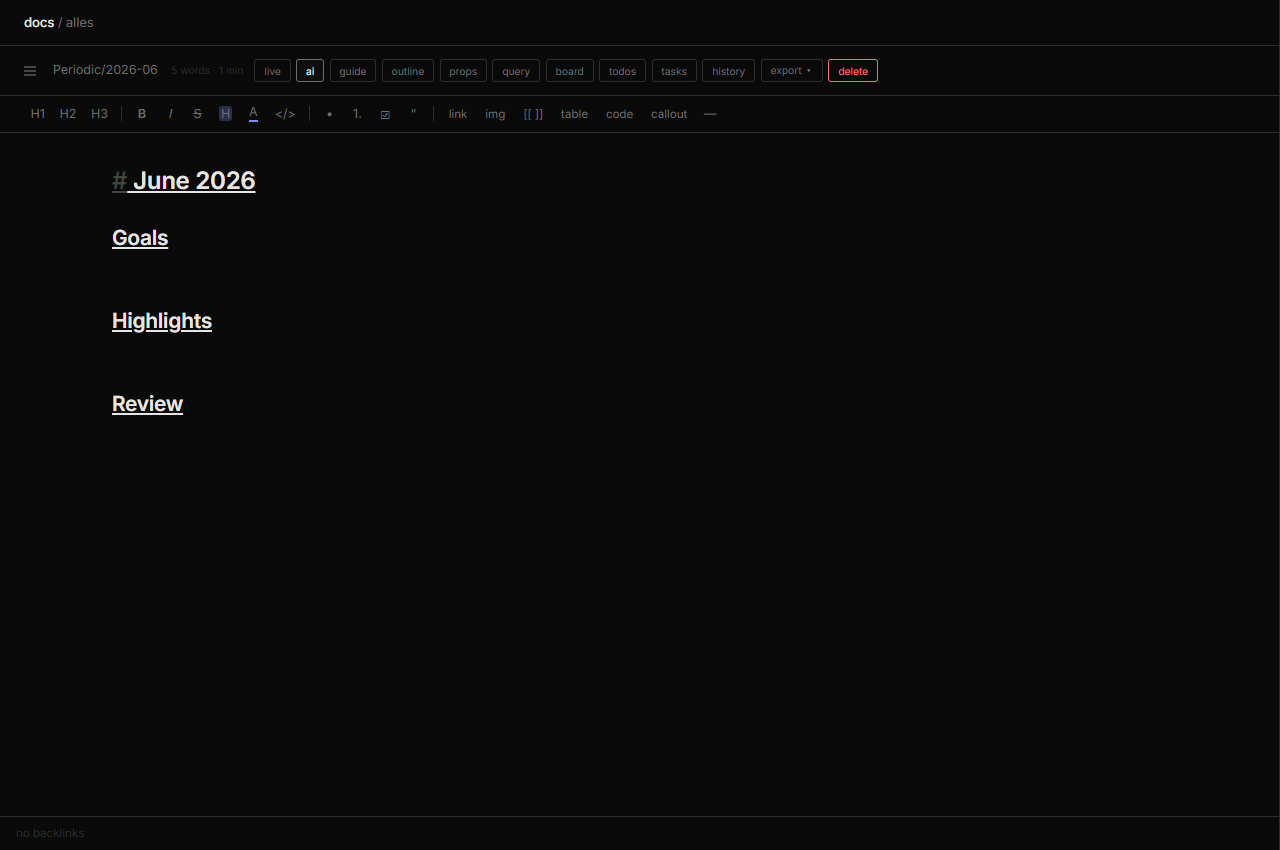
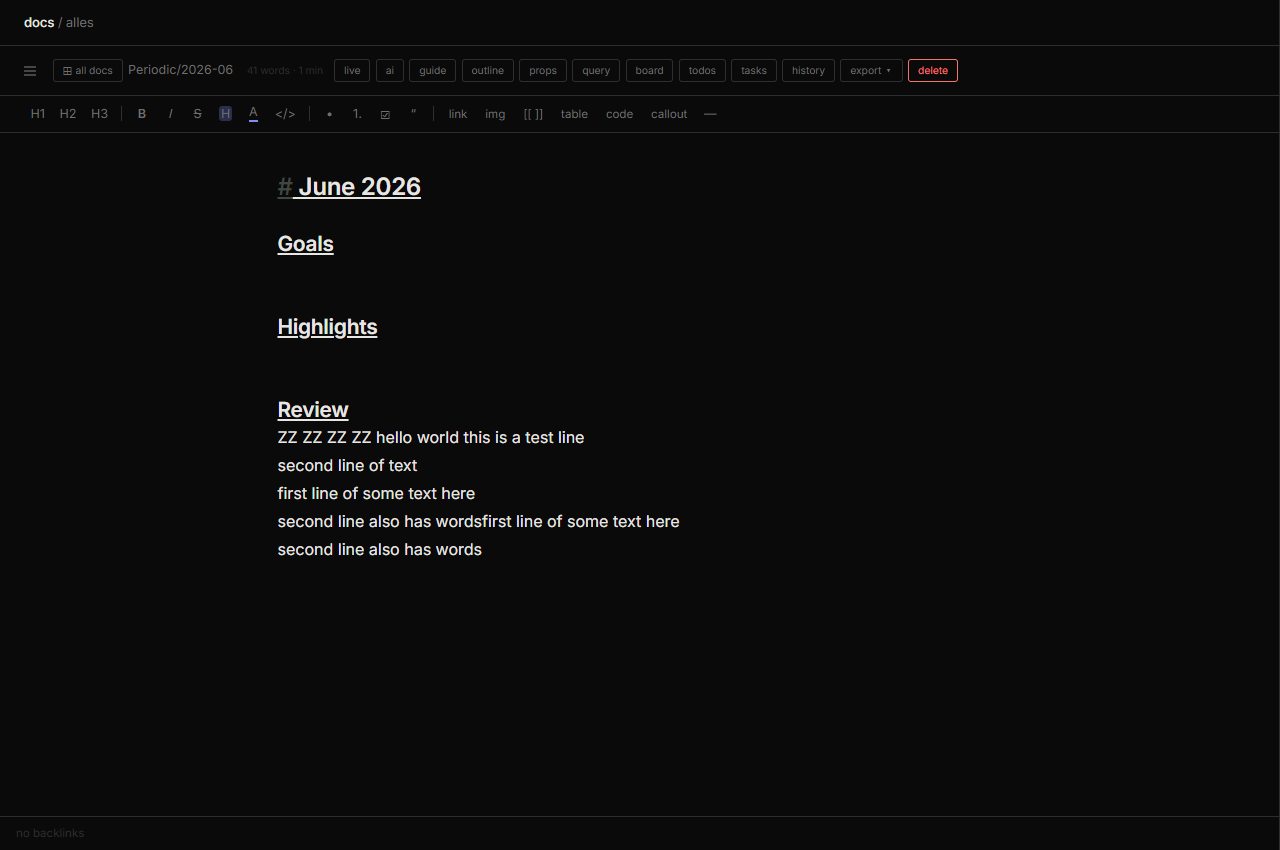
(change) skeleton docs: docs: confine selection to the editor and simplify home
confine text selection to the editor page and simplify the docs home by removing the tree sidebar.

touches 11 files across `docs`, `progress.json`, and `static` (+55/-11).

diff --git a/static/style.css b/static/style.css
@@ -3682,18 +3682,18 @@ body.is-incognito .incognito-bar {
 /* editor surfaces: live (CodeMirror wysiwyg) is default; source (raw textarea) +
    preview are mode-toggled. CM edits plain markdown text, so saves stay exact. */
 .wiki-edit-wrap { flex: 1; min-height: 0; display: flex; overflow: hidden; }
-.wiki-live { flex: 1; min-width: 0; min-height: 0; display: flex; }
-.wiki-live .cm-editor { flex: 1; min-height: 0; height: 100%; }
-/* google-docs-style page: center the editable column instead of spanning the
-   full ultra-wide screen — also keeps text selection inside the page, not full-bleed */
-.wiki-live .cm-scroller { justify-content: center; }
-.wiki-live .cm-content {
-  max-width: 820px; width: 100%;
-  padding: 2.4rem clamp(1rem, 4vw, 3rem) 6rem;
-}
+/* google-docs-style page: cap the WHOLE editor to a centered column so the content
+   AND CodeMirror's selection layer both stay inside it — selecting/copying never
+   spans the empty sides (capping only .cm-content left the selection layer full-width) */
+.wiki-live { flex: 1; min-width: 0; min-height: 0; display: flex; justify-content: center; }
+.wiki-live .cm-editor { flex: 1 1 auto; width: 100%; max-width: 820px; min-width: 0; min-height: 0; height: 100%; }
+.wiki-live .cm-content { padding: 2.4rem clamp(1rem, 4vw, 3rem) 6rem; }
+/* same centered page for source + preview modes */
+#wiki-view .wiki-source, #wiki-view .wiki-preview { max-width: 820px; width: 100%; margin: 0 auto; }
 /* intentional selection tint (was a washed full-width grey) */
 #wiki-view .cm-selectionBackground,
-#wiki-view .cm-content ::selection { background: color-mix(in srgb, var(--accent) 30%, transparent) !important; }
+#wiki-view .cm-content ::selection,
+#wiki-view .wiki-source::selection { background: color-mix(in srgb, var(--accent) 30%, transparent) !important; }
 .wiki-source, .wiki-preview {
   flex: 1; min-width: 0; overflow-y: auto;
   padding: 2rem clamp(1.5rem, 12%, 7rem);
@@ -3865,6 +3865,10 @@ body.is-incognito .incognito-bar {
 .docs-card-meta { font-size: 0.66rem; color: var(--muted); margin-top: auto; overflow: hidden; text-overflow: ellipsis; white-space: nowrap; }
 #wiki-home-btn { white-space: nowrap; }
 #wiki-view.no-note #wiki-home-btn { display: none; }   /* already home — no need */
+/* docs HOME = clean gallery only: no tree sidebar, no editor toolbar (they're for editing a doc) */
+#wiki-view.no-note .wiki-tree-panel { display: none; }
+#wiki-view.no-note .docs-editor-head { display: none; }
+#wiki-view.no-note .wiki-main { flex: 1; }
 #wiki-view.no-note .wiki-edit-wrap,
 #wiki-view.no-note .wiki-backlinks,
 #wiki-view.no-note .doc-ai-bar { display: none; }

diff --git a/docs/evidence/docs/findings-fix2.md b/docs/evidence/docs/findings-fix2.md
@@ -1,0 +1,24 @@
+# docs — follow-up #2 (2026-06-18): selection escapes page + sidebar on home
+
+User re-reported (with screenshots) that the first docs pass didn't actually fix things.
+
+## 1. Text selection still spanned the full screen
+Diagnosed at 1920px: `.cm-content` WAS capped at 820px, but CodeMirror draws its selection in a
+`.cm-selectionBackground` layer that lives in `.cm-scroller` (full editor width = 1919px), not clipped to
+`.cm-content`. So selection right-edge reached ~1370–1800px and "copying grabbed the sides". The earlier
+`.cm-scroller{justify-content:center}` + `.cm-content{max-width}` was fragile (content centered, but the
+selection layer didn't).
+**Fix:** cap the whole `.cm-editor` to `max-width:820px` and center it via `.wiki-live{justify-content:center}`,
+so scroller + content + selection layer are all inside the 820px page. Source/preview get the same centered
+cap. Measured after: editor 549→1370 at 1920px, selection max-right = 1370 (= page edge), min-left = 550.
+
+## 2. Docs home still had the tree sidebar (redundant with the gallery)
+The home showed `.wiki-tree-panel` (today/week/month/+doc/search/file-list) on the left AND the new card
+gallery in the main column — the user's "why do you need a sidebar in the home page".
+**Fix:** `#wiki-view.no-note` hides `.wiki-tree-panel` and `.docs-editor-head`. The home is now the clean
+gallery only (title + new doc / today / guide + search + centered card grid). Opening a doc (click a card)
+restores the editor head + `☰` tree toggle, so the full rail is one click away when actually editing.
+
+CSS-only (`static/style.css`). Verified `pw_docs_fix2.py` 10/10 @1920px; full docs suite still green
+(`pw_docs_ui1` 9/9, `pw_docs_page1` 8/8, `pw_docs_home1` 9/9 — their home-open steps updated to click a
+gallery card since the tree toggle is no longer on the home). Screenshots: `fix2-home.png`, `fix2-selection.png`.

diff --git a/docs/plans/docs.md b/docs/plans/docs.md
@@ -99,3 +99,18 @@ click → open; plus an "⊞ all docs" button in the editor head to return home.
 **Verify (`pw_docs_home1.py`, 9 assertions, screenshots, 0 console err):** home_shows_on_load,
 home_has_grid, home_cards_rendered (≥5), card_has_title_and_meta, card_opens_doc (sets `?doc`, hides home),
 home_button_returns (clears `?doc`), home_search_filters, home_search_clear_restores, zero_console_errors.
+
+## docs-fix-2 — selection escapes the page + sidebar on the home (user follow-up #2)
+Two things the first pass missed (user re-reported with screenshots):
+- **Selection still spanned the full screen.** Capping only `.cm-content` left CodeMirror's *selection layer*
+  (a sibling in `.cm-scroller`, full editor width) unconstrained — at 1920px the text sat at the far left
+  and the selection bled to ~1800px. Fix: cap the **whole `.cm-editor`** to `max-width:820px` centered
+  (`.wiki-live{justify-content:center}`) so the scroller, content **and** selection layer all stay inside
+  the page; same centered cap for `.wiki-source`/`.wiki-preview`. Now (1920px) the editor is 549→1370 and
+  the selection never exceeds that — copying no longer grabs the empty sides.
+- **Home still showed the tree sidebar** next to the new gallery (redundant). Fix: `#wiki-view.no-note`
+  hides `.wiki-tree-panel` **and** `.docs-editor-head` → the home is the clean gallery only (title + new
+  doc/today/guide + search + centered card grid); the tree + full rail return (via `☰`) once a doc opens.
+**Verify (`pw_docs_fix2.py` @1920, 10 assertions):** home_no_tree_sidebar, home_no_editor_head,
+home_gallery_visible, home_gallery_centered, editor_head_back_when_open, editor_capped (≤840),
+editor_centered, selection_within_page, selection_not_fullbleed, zero_console_errors.
